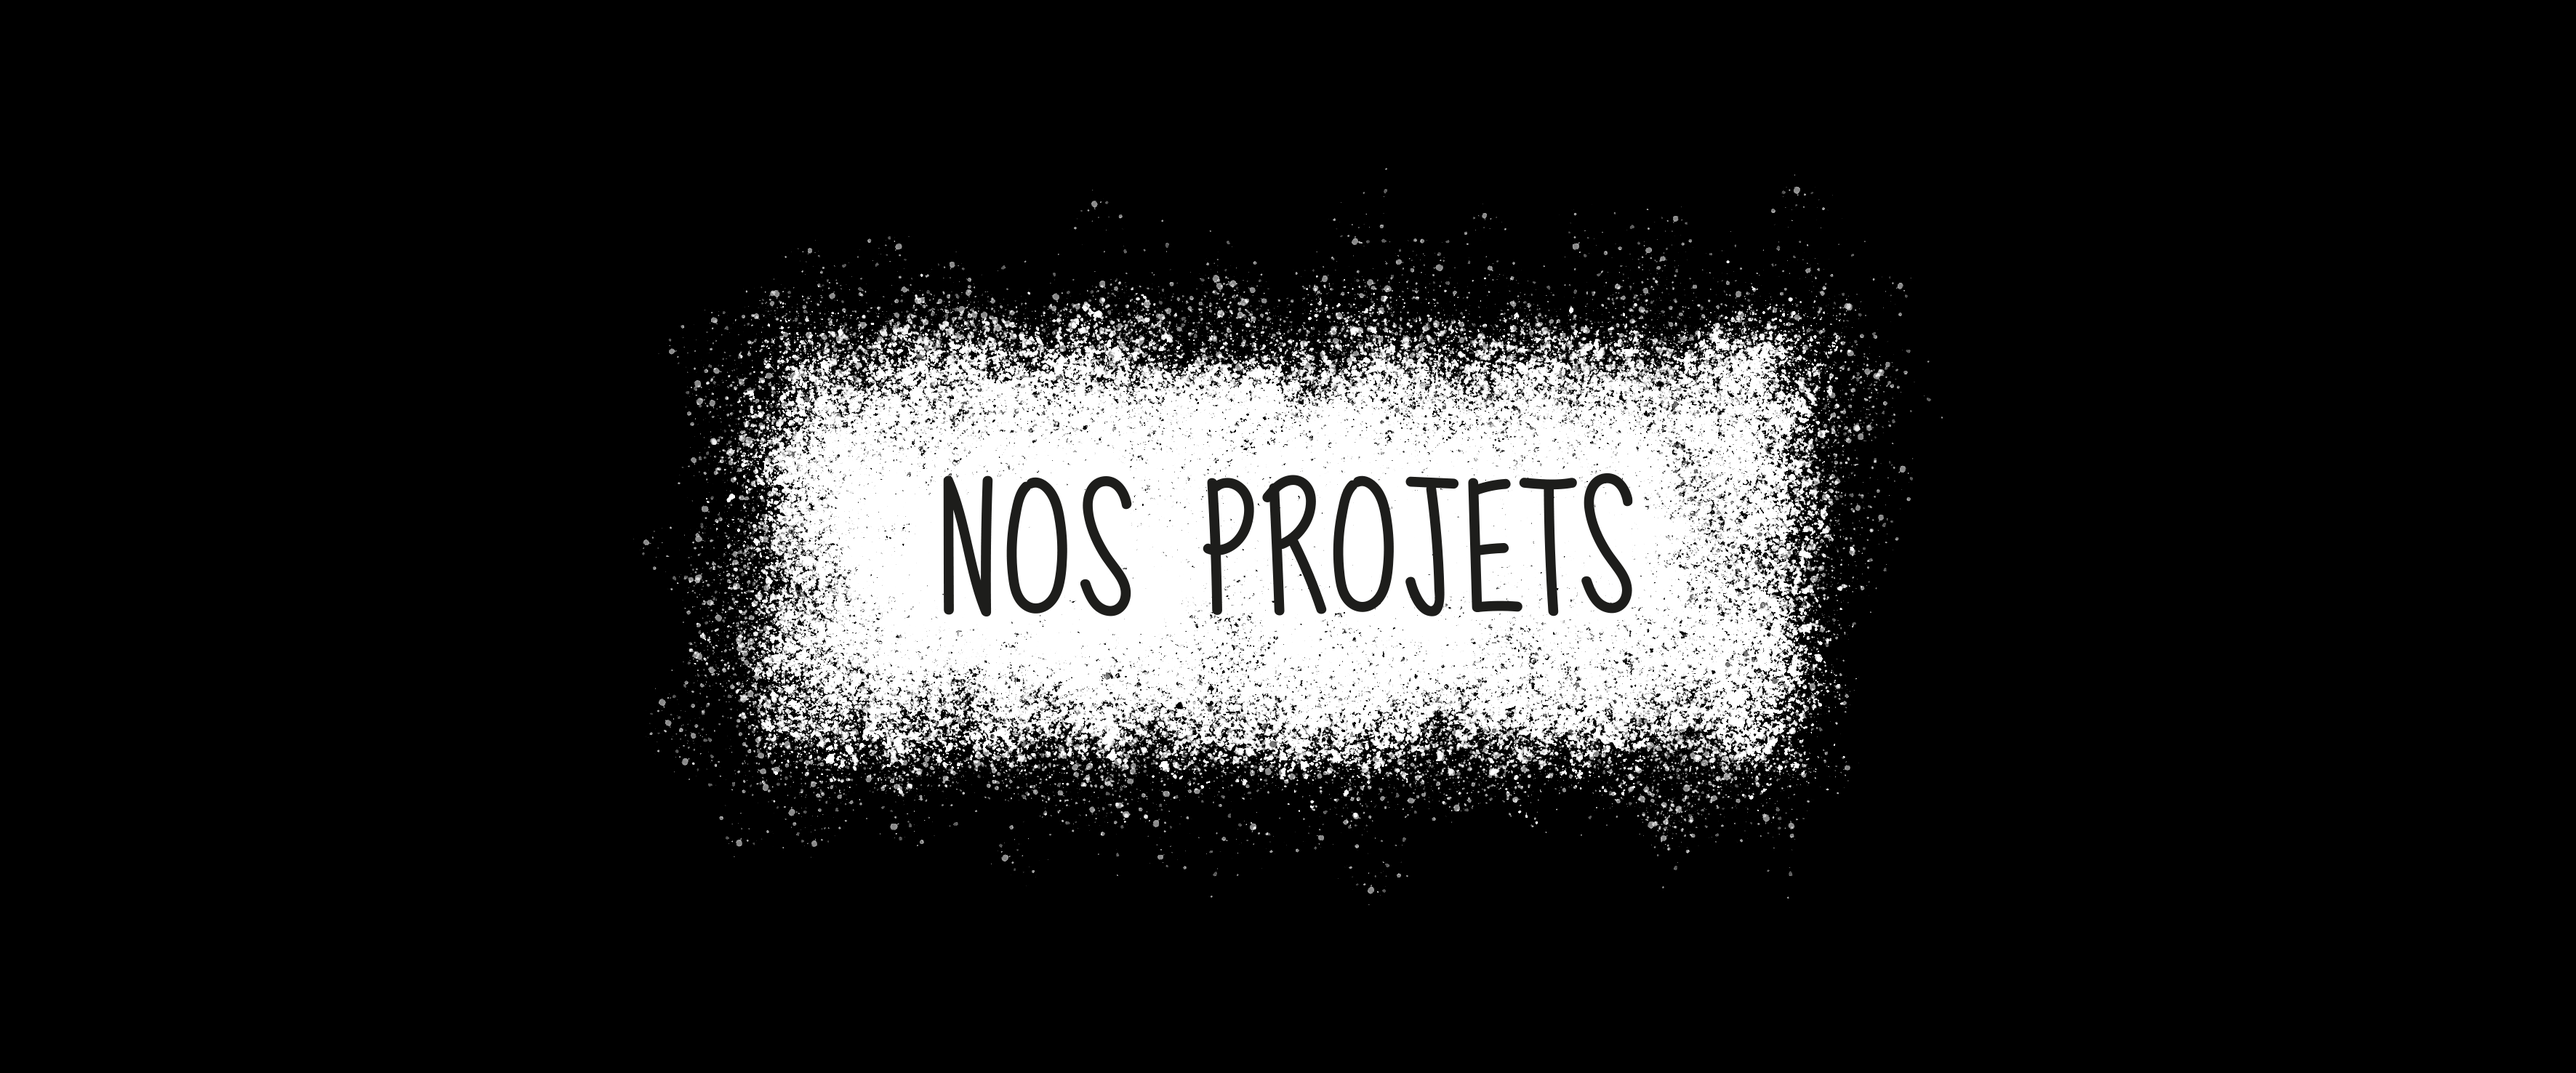
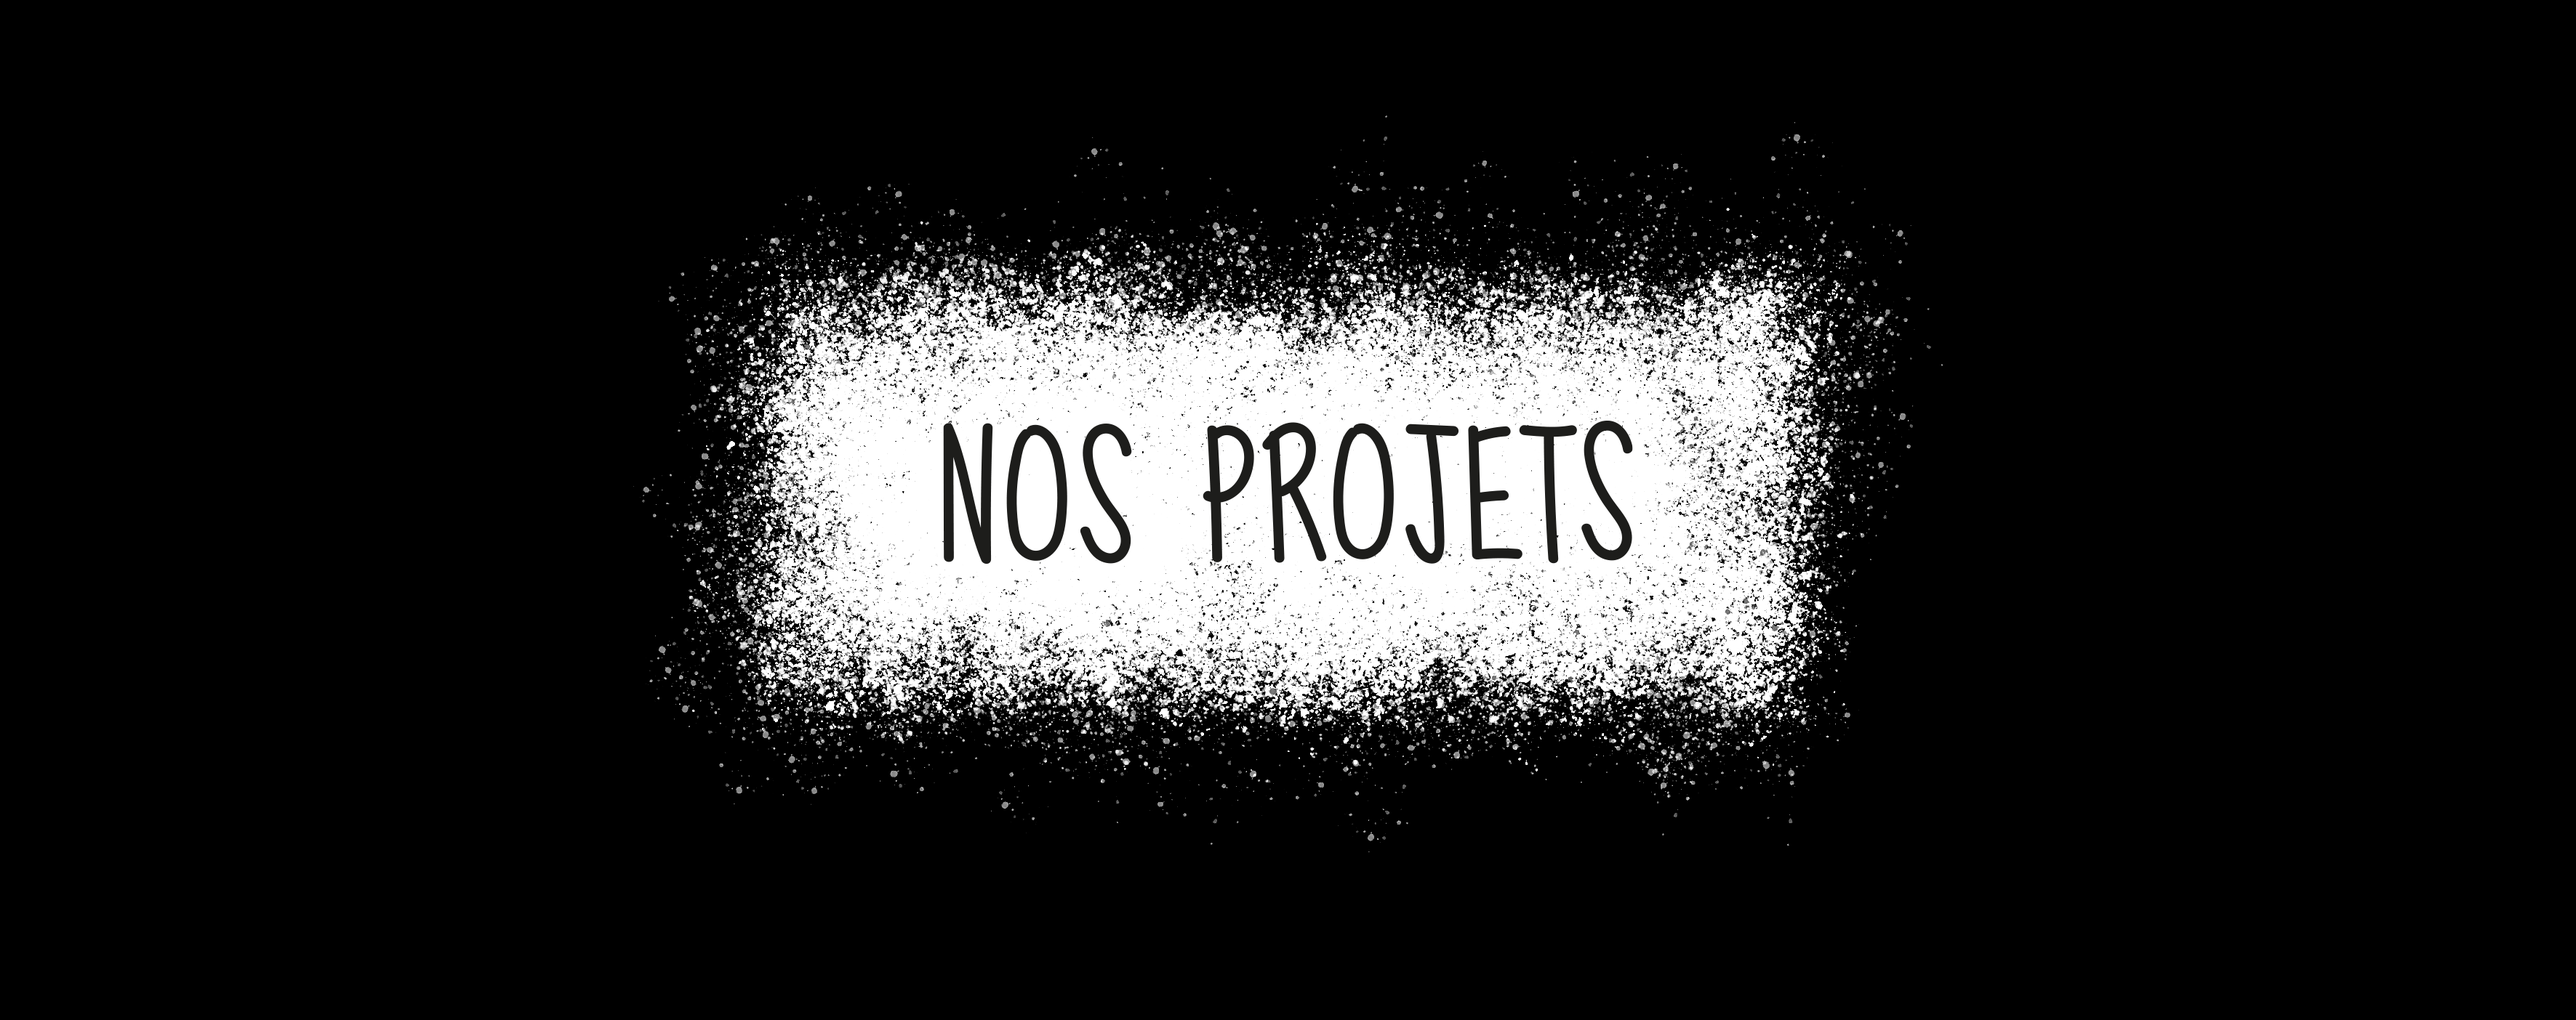
Updates with Anna

Changed region(s): [[0.2484, 0.2144, 0.7451, 0.7963]]

diff --git a/frontend/src/main.scss b/frontend/src/main.scss
@@ -62,11 +62,13 @@ a {
         margin-bottom: 0.4em;
     }
     p {
-        margin: 0.5em 0 0.5em 0;
+        margin-bottom: 1em;
         text-align: justify;
     }
 }
-
+.description-text p {
+    padding-bottom: 1em;
+}
 // Sticky footer
 html,
 body {
@@ -114,7 +116,7 @@ body {
         }
 
         .navbar-start {
-            justify-content: space-around;
+            justify-content: flex-end;
             flex-grow: 3;
             margin-inline-end: 0;
         }
@@ -123,7 +125,7 @@ body {
     .header-title {
         display: flex;
         justify-content: center;
-        padding-top: 3rem;
+        padding-top: 1rem;
         margin-top: 2vh;
         height: 78%;
         position: relative;
@@ -189,7 +191,7 @@ body {
 
 // Contact
 .contact-logo img {
-    max-height: 30rem;
+    max-height: 27rem;
 }
 
 .contact-infos {
@@ -212,10 +214,5 @@ body {
         margin-left: auto;
         height: 90vh;
         border: black 1px solid;
-    }
-
-    .play-poster-desc {
-        border: black 1px solid;
-        border-left: none;
     }
 }
